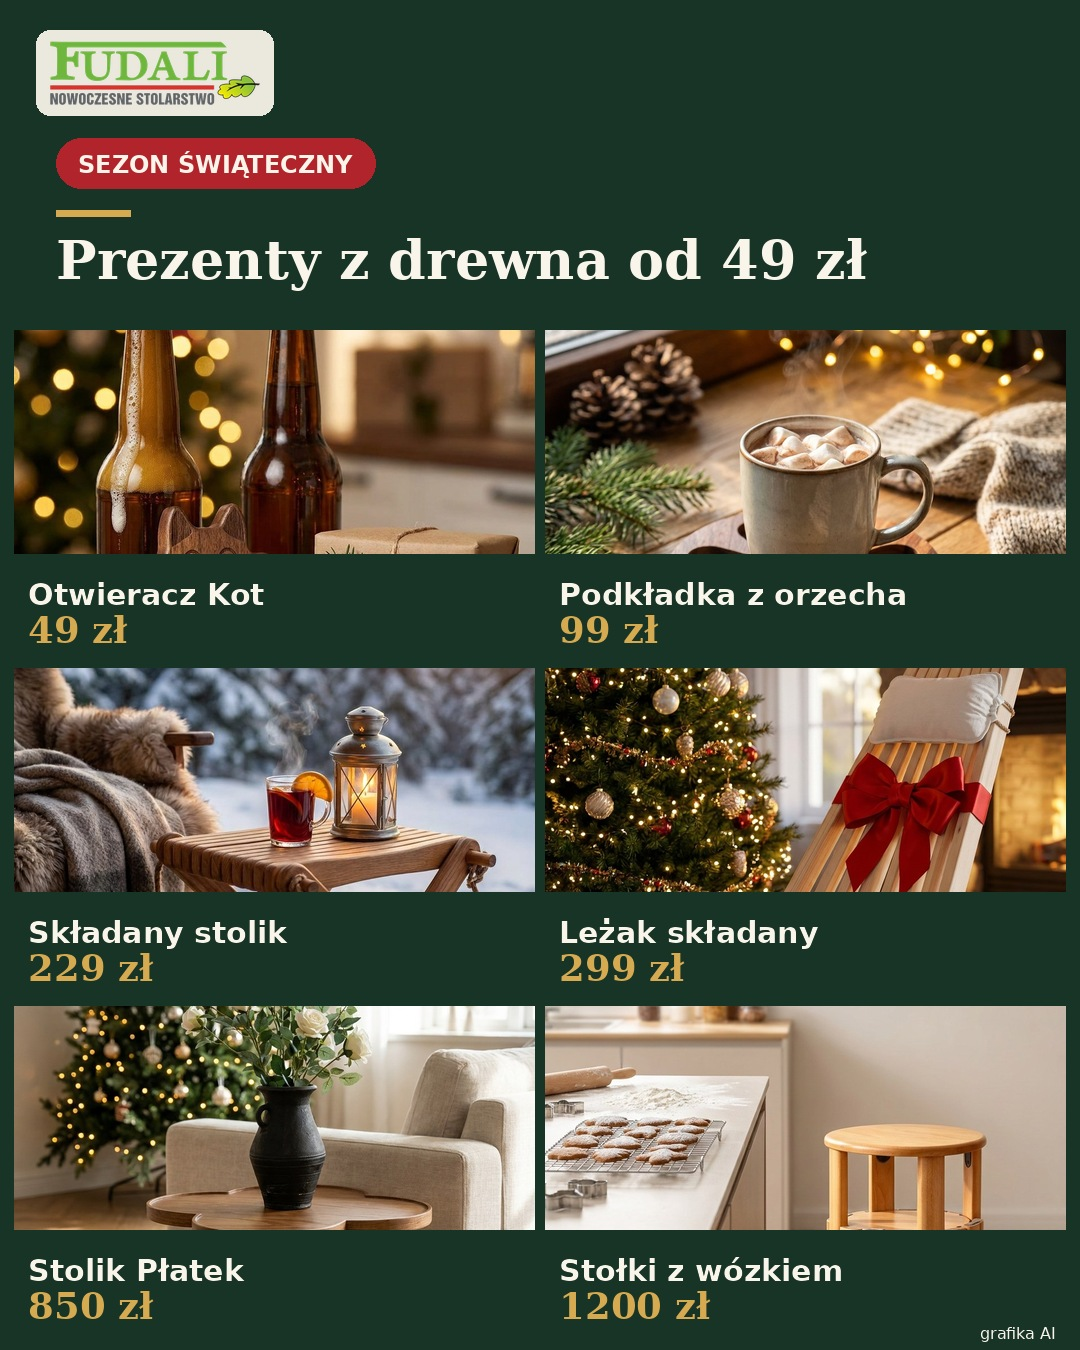
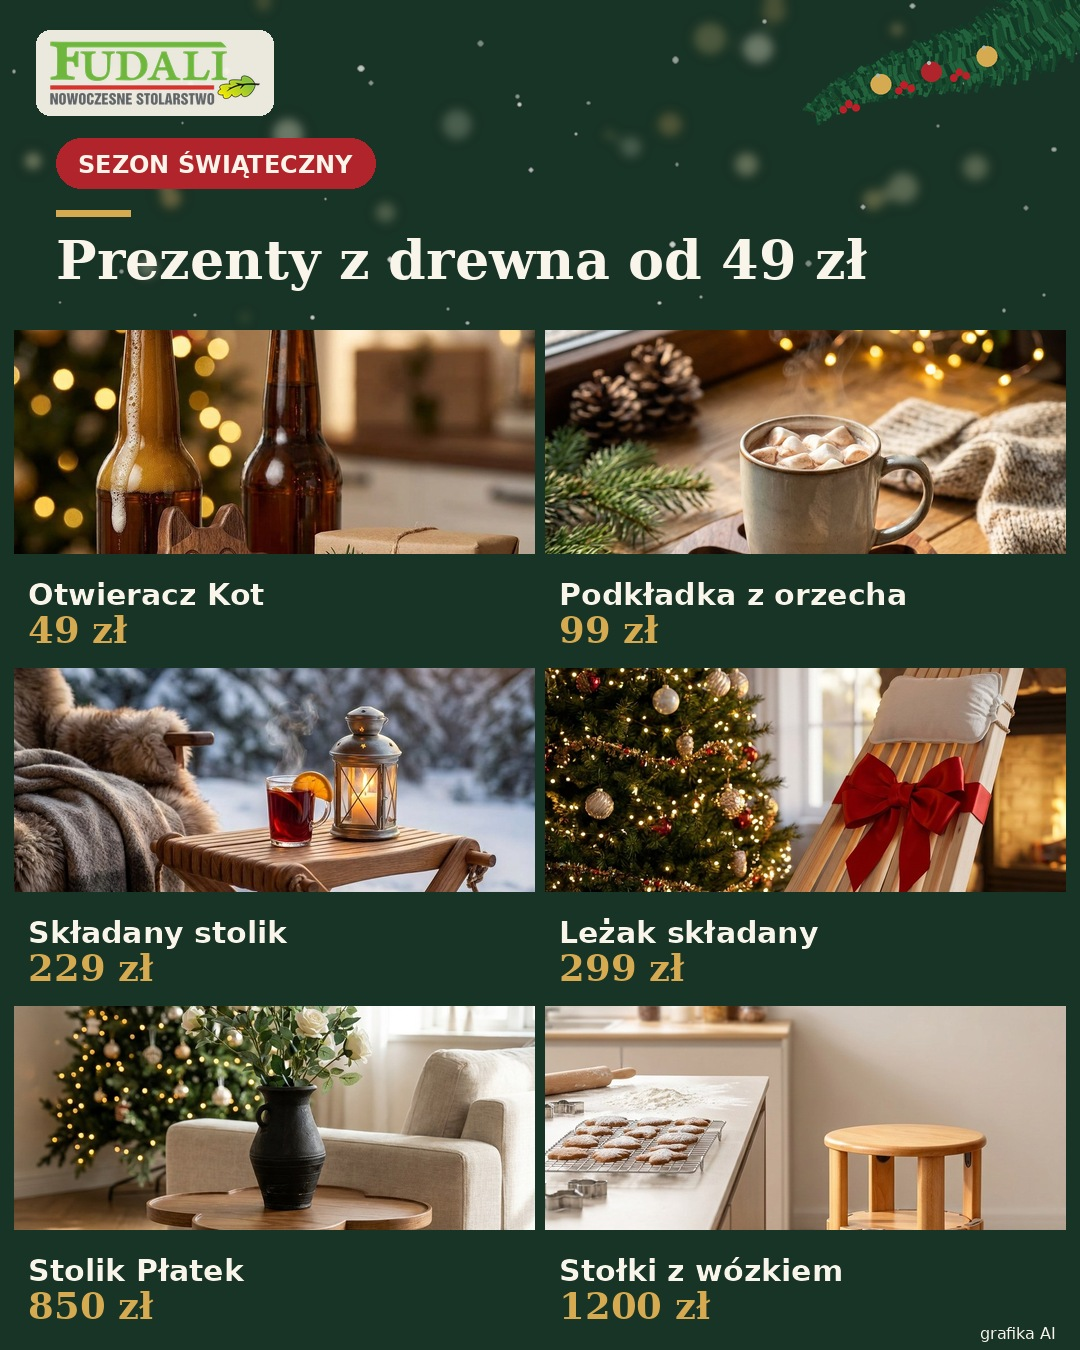
Zosia: świąteczny klimat (bokeh, śnieg, gałązki, ciepłe barwy) w grafikach i kolażu
Claude-Session: https://claude.ai/code/session_01PrvQufqsxup7QiuVWo7txy

diff --git a/scripts/grafika/swieta.py b/scripts/grafika/swieta.py
@@ -34,6 +34,53 @@ KARTY = {
     "pl": ("MAŁY PREZENT", "Drewniany otwieracz Kot", "Szczęśliwy kot na święta · 49 zł"),
     "en": ("STOCKING FILLER", "Wooden cat bottle opener", "A lucky cat for the holidays")}),
 }
+import random, math
+from PIL import ImageEnhance, ImageChops
+def warm(im):
+    """cieplejsza kolorystyka (miękkie pomarańczowe światło) + lekkie podbicie nasycenia"""
+    rgb = im.convert("RGB"); ov = Image.new("RGB", rgb.size, (255, 170, 90))
+    rgb = Image.blend(rgb, ImageChops.multiply(rgb, ov), 0.22); rgb = ImageEnhance.Color(rgb).enhance(1.08); return rgb.convert("RGBA")
+def bokeh(img, box, n=22, seed=3):
+    """ciepłe światełka bokeh (złote/ciepłe białe, rozmyte) w obszarze box=(x0,y0,x1,y1)"""
+    r = random.Random(seed); W, H = img.size; ov = Image.new("RGBA", (W, H), (0, 0, 0, 0)); d = ImageDraw.Draw(ov)
+    for _ in range(n):
+        x = r.uniform(box[0], box[2]); y = r.uniform(box[1], box[3]); rad = r.uniform(6, 20) * W / 1080
+        c = r.choice([(255, 214, 140), (255, 236, 190), (255, 190, 110), (255, 245, 220)])
+        d.ellipse((x - rad, y - rad, x + rad, y + rad), fill=c + (r.randint(45, 105),))
+    img.alpha_composite(ov.filter(ImageFilter.GaussianBlur(6 * W / 1080)))
+def snow(img, box, n=45, seed=5):
+    r = random.Random(seed); W, H = img.size; ov = Image.new("RGBA", (W, H), (0, 0, 0, 0)); d = ImageDraw.Draw(ov)
+    for _ in range(n):
+        x = r.uniform(box[0], box[2]); y = r.uniform(box[1], box[3]); rad = r.uniform(1.2, 3.2) * W / 1080
+        d.ellipse((x - rad, y - rad, x + rad, y + rad), fill=(255, 255, 255, r.randint(110, 200)))
+    img.alpha_composite(ov.filter(ImageFilter.GaussianBlur(0.8)))
+def gałązka(size=560, seed=1):
+    """gałązka świerku z bombkami i czerwonymi jagodami (rysowana, RGBA), korzeń w prawym górnym rogu, rośnie w lewo-dół"""
+    r = random.Random(seed); S = size * 2; im = Image.new("RGBA", (S, S), (0, 0, 0, 0)); d = ImageDraw.Draw(im)
+    pts = [(S * (1 - t * 0.92), S * (0.02 + 0.8 * t ** 1.35 * 0.55 + 0.06 * math.sin(t * 5))) for t in [i / 60 for i in range(61)]]
+    for i in range(len(pts) - 1): d.line((pts[i], pts[i + 1]), fill=(70, 46, 28, 255), width=int(10 * (1 - i / 80)))
+    for i in range(2, 60):
+        (x, y), (x2, y2) = pts[i], pts[i + 1]; a = math.atan2(y2 - y, x2 - x); L = S * 0.2 * (1 - i / 78)
+        for side in (-1, 1):
+            for k in range(7):
+                aa = a + side * (0.9 + 0.15 * k) + r.uniform(-0.08, 0.08); ln = L * (1 - 0.1 * k) * r.uniform(0.7, 1.05)
+                col = r.choice([(24, 74, 46, 255), (34, 98, 60, 255), (18, 58, 38, 255)])
+                d.line((x, y, x + math.cos(aa) * ln, y + math.sin(aa) * ln), fill=col, width=int(S * 0.012))
+    for i in (22, 34, 45):
+        x, y = pts[i]; rad = S * 0.034; col = r.choice([(176, 36, 44), (214, 170, 80)])
+        d.ellipse((x - rad, y - rad + 10, x + rad, y + rad + 10), fill=col + (255,)); d.ellipse((x - rad * .45, y - rad * .55, x - rad * .1, y - rad * .2), fill=(255, 255, 255, 170))
+    for i in (28, 40, 52):
+        x, y = pts[i]; rad = S * 0.012
+        for dx, dy in ((0, 0), (rad * 2, rad), (-rad * 1.5, rad * 1.6)): d.ellipse((x + dx - rad, y + dy + S * .04 - rad, x + dx + rad, y + dy + S * .04 + rad), fill=(190, 30, 40, 255))
+    return im.resize((size, size), Image.LANCZOS)
+def festive(img, W, H, photo_box):
+    """świąteczny montaż: ciepłe barwy, bokeh, śnieg, gałązki w rogach"""
+    img = warm(img) if photo_box is None else img
+    bokeh(img, (photo_box[0], photo_box[1], photo_box[2], photo_box[1] + (photo_box[3] - photo_box[1]) * 0.45), n=int(14 * W / 1080) + 5); snow(img, photo_box, n=int(34 * W / 1080) + 8)
+    g = gałązka(int(min(W, H) * 0.30)); img.alpha_composite(g, (photo_box[2] - g.width + 6, photo_box[1] - 6))
+    g2 = gałązka(int(min(W, H) * 0.22), seed=4).transpose(Image.FLIP_LEFT_RIGHT).transpose(Image.FLIP_TOP_BOTTOM)
+    img.alpha_composite(g2, (photo_box[0] - 10, photo_box[3] - g2.height + 10))
+    return img
 def cover(im, w, h, focus):
     r = max(w / im.width, h / im.height); im = im.resize((round(im.width * r) + 1, round(im.height * r) + 1), Image.LANCZOS)
     x = int((im.width - w) * focus[0]); y = int((im.height - h) * focus[1]); return im.crop((x, y, x + w, y + h))
@@ -72,6 +119,9 @@ def render(src, ai, focus, tekst, fmt, out, pack=False):
         img = cover(ph, W, H, focus).convert("RGBA"); ov = Image.new("RGBA", (W, H), (0, 0, 0, 0)); d0 = ImageDraw.Draw(ov); gh = int(H * 0.42)
         for y in range(H - gh, H): d0.line((0, y, W, y), fill=GREEN + (int(245 * ((y - (H - gh)) / gh) ** 0.8),))
         img = Image.alpha_composite(img, ov); tx, tw = 56, W - 112
+    if pack:
+        box = (W - int(W * 0.5), 0, W, H) if wide else (0, 0, W, int(H * 0.7))
+        img = festive(warm(img.convert("RGBA")) if not wide else img, W, H, box)
     d = ImageDraw.Draw(img)
     hs = int({"ig-4x5": 70, "ig-1x1": 64, "fb-191x1": 44, "pin-2x3": 72}[fmt]); ss = max(24, int(hs * 0.42)); ps = max(20, int(hs * 0.34))
     hl = wrap(d, head, F(hs), tw); sl = wrap(d, sub, F(ss, False, False), tw)

diff --git a/scripts/grafika/swieta_kolaz.py b/scripts/grafika/swieta_kolaz.py
@@ -27,6 +27,8 @@ def kolaz(fmt, out):
         pw = 400; cols, rows, gap = 3, 2, 8; gx = pw; gw, gh = W - pw - 16, H - 16
         tw, th = (gw - gap * (cols - 1)) // cols, (gh - gap * (rows - 1)) // rows
         for i, k in enumerate(KAFLE): img.alpha_composite(kafel(tw, th, k, 20), (gx + 8 + (i % cols) * (tw + gap), 8 + (i // cols) * (th + gap)))
+        S.bokeh(img, (0, 0, pw, H), n=14, seed=8); S.snow(img, (0, 0, pw, H), n=30)
+        g = S.gałązka(190); img.alpha_composite(g, (pw - g.width + 8, -4)); d = ImageDraw.Draw(img)
         y = 130; pl = "SEZON ŚWIĄTECZNY"; pf = S.F(20, False, True)
         d.rounded_rectangle((36, y, 36 + d.textlength(pl, font=pf) + 40, y + 46), radius=26, fill=S.RED + (255,)); d.text((56, y + 11), pl, font=pf, fill=S.CREAM + (255,)); y += 74
         d.rectangle((36, y, 106, y + 5), fill=S.GOLD + (255,)); y += 20
@@ -37,6 +39,8 @@ def kolaz(fmt, out):
         top = 330; gx, gy, gap = 14, top, 10; cols, rows = 2, 3
         tw = (W - 2 * gx - gap) // 2; th = (H - gy - 14 - gap * 2) // 3
         for i, k in enumerate(KAFLE): img.alpha_composite(kafel(tw, th, k, 30), (gx + (i % cols) * (tw + gap), gy + (i // cols) * (th + gap)))
+        S.bokeh(img, (0, 0, W, top), n=22, seed=8); S.snow(img, (0, 0, W, top), n=40)
+        g = S.gałązka(300); img.alpha_composite(g, (W - g.width + 8, -6)); d = ImageDraw.Draw(img)
         pl = "SEZON ŚWIĄTECZNY"; pf = S.F(24, False, True)
         d.rounded_rectangle((56, 138, 56 + d.textlength(pl, font=pf) + 44, 138 + 50), radius=28, fill=S.RED + (255,)); d.text((78, 150), pl, font=pf, fill=S.CREAM + (255,))
         d.rectangle((56, 210, 130, 216), fill=S.GOLD + (255,)); d.text((56, 228), "Prezenty z drewna od 49 zł", font=S.F(54), fill=S.CREAM + (255,))

diff --git a/marketing/zdjecia/swieta-2026/README.md b/marketing/zdjecia/swieta-2026/README.md
@@ -9,3 +9,7 @@ Skrypt: `python3 scripts/grafika/swieta.py` (teksty/motywy w słowniku `KARTY`; 
 - **Pinterest 2:3 (EN), 3 warianty leżaka:** `pin-lezak-gift-under-the-tree.jpg` (kokarda), `pin-lezak-cushion-included.jpg`, `pin-lezak-gift-idea.jpg`.
 - **Podkładka 99 zł:** `podkladka-ig-4x5.jpg`, `podkladka-ig-1x1.jpg` (FB 1:1), `podkladka-fb-191x1.jpg` – z paczki 1.
 Skrypt: `python3 scripts/grafika/swieta_kolaz.py`. Wszystko AI (dopisek „grafika AI”). Ceny sprawdzić przed publikacją.
+
+## ✨ Poprawka świątecznego klimatu (05.11.2026, na uwagę Klaudiusza)
+Nadpisane pliki: wszystkie packshotowe motywy – `lezak-prezent-*`, `zestaw-wnetrze-*`, `stolki-*`, `podkladka-*` (4 formaty) – oraz `kolaz-start-*` i `pin-lezak-cushion-included.jpg`.
+Dołożony montaż (bez nowego AI): cieplejsza kolorystyka, światełka bokeh, delikatny śnieg, gałązki świerku z bombkami i czerwonymi jagodami w rogach, czerwono-złote akcenty. Wzorce bez zmian: `lezak-choinka-*`, `lezak-kokarda-*`, `otwieracz-kot-*`.
